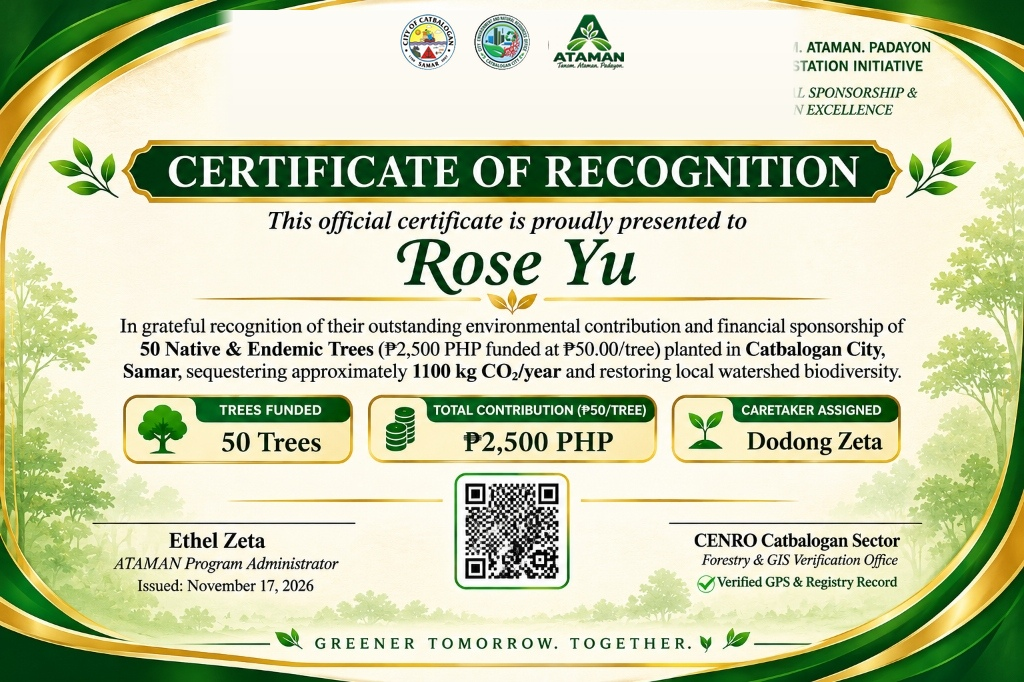
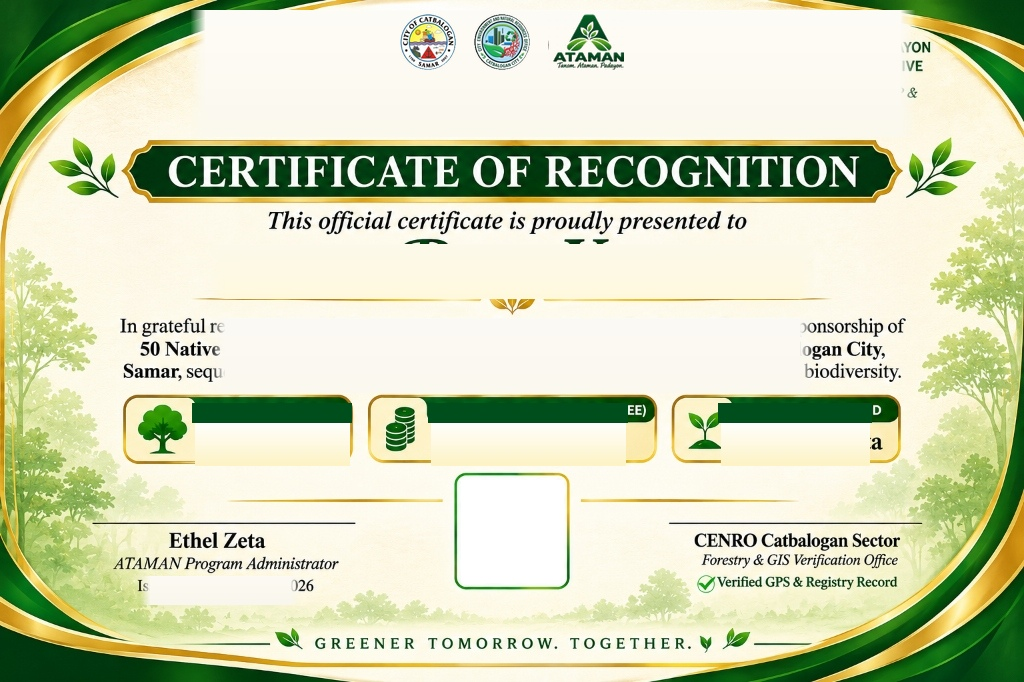
Fix certificate double text: restore clean pristine template background without baked-in dummy text

diff --git a/ATAMAN-init.js b/ATAMAN-init.js
@@ -1810,7 +1810,7 @@
           <!-- Printable Ornate Certificate Frame -->
           <div id="atamanPrintableCertificate" style="width:100%;border-radius:12px;overflow:hidden;box-shadow:0 10px 30px rgba(0,0,0,0.18);background:#faf6e8;">
             <svg id="atamanCertSvg" viewBox="0 0 1024 682" width="100%" height="100%" xmlns="http://www.w3.org/2000/svg" style="display:block;width:100%;height:auto;">
-              <image href="assets/certificate-template-bg.jpg?v=20261117_v5" x="0" y="0" width="1024" height="682" preserveAspectRatio="none"/>
+              <image href="assets/certificate-template-bg.jpg?v=20261117_v6" x="0" y="0" width="1024" height="682" preserveAspectRatio="none"/>
 
               <!-- Centered Header & Subtitle Underneath the Top Logos -->
               <text x="512" y="86" text-anchor="middle" fill="#091e12" font-family="'Plus Jakarta Sans', Arial, sans-serif" font-weight="800" font-size="12.5" letter-spacing="0.6">${escapeCertXml(headerTopLine1)}</text>
@@ -1863,9 +1863,9 @@
       });
 
       modal.querySelector('#certPrintBtn')?.addEventListener('click', () => {
-        const absBgUrl = new URL('assets/certificate-template-bg.jpg?v=20261117_v5', window.location.href).href;
+        const absBgUrl = new URL('assets/certificate-template-bg.jpg?v=20261117_v6', window.location.href).href;
         const rawSvg = (document.getElementById('atamanPrintableCertificate')?.innerHTML || '')
-          .replace('assets/certificate-template-bg.jpg?v=20261117_v5', absBgUrl);
+          .replace('assets/certificate-template-bg.jpg?v=20261117_v6', absBgUrl);
         const win = window.open('', '_blank', 'width=1080,height=740');
         if (win) {
           win.document.write(`<!DOCTYPE html><html><head><title>${certSerial}</title><style>@page{size:landscape;margin:8mm;}body{font-family:Georgia,serif;padding:0;margin:0;background:#fff;display:flex;align-items:center;justify-content:center;}</style></head><body><div style="width:100%;max-width:1024px;">${rawSvg}</div><script>window.onload=function(){setTimeout(function(){window.print();},400);};<\/script></body></html>`);
@@ -1989,7 +1989,7 @@
           link.href = canvas.toDataURL('image/png');
           link.click();
         };
-        bgImg.src = 'assets/certificate-template-bg.jpg?v=20261117_v5';
+        bgImg.src = 'assets/certificate-template-bg.jpg?v=20261117_v6';
       });
     }
 

diff --git a/saplink-init.js b/saplink-init.js
@@ -1810,7 +1810,7 @@
           <!-- Printable Ornate Certificate Frame -->
           <div id="atamanPrintableCertificate" style="width:100%;border-radius:12px;overflow:hidden;box-shadow:0 10px 30px rgba(0,0,0,0.18);background:#faf6e8;">
             <svg id="atamanCertSvg" viewBox="0 0 1024 682" width="100%" height="100%" xmlns="http://www.w3.org/2000/svg" style="display:block;width:100%;height:auto;">
-              <image href="assets/certificate-template-bg.jpg?v=20261117_v5" x="0" y="0" width="1024" height="682" preserveAspectRatio="none"/>
+              <image href="assets/certificate-template-bg.jpg?v=20261117_v6" x="0" y="0" width="1024" height="682" preserveAspectRatio="none"/>
 
               <!-- Centered Header & Subtitle Underneath the Top Logos -->
               <text x="512" y="86" text-anchor="middle" fill="#091e12" font-family="'Plus Jakarta Sans', Arial, sans-serif" font-weight="800" font-size="12.5" letter-spacing="0.6">${escapeCertXml(headerTopLine1)}</text>
@@ -1863,9 +1863,9 @@
       });
 
       modal.querySelector('#certPrintBtn')?.addEventListener('click', () => {
-        const absBgUrl = new URL('assets/certificate-template-bg.jpg?v=20261117_v5', window.location.href).href;
+        const absBgUrl = new URL('assets/certificate-template-bg.jpg?v=20261117_v6', window.location.href).href;
         const rawSvg = (document.getElementById('atamanPrintableCertificate')?.innerHTML || '')
-          .replace('assets/certificate-template-bg.jpg?v=20261117_v5', absBgUrl);
+          .replace('assets/certificate-template-bg.jpg?v=20261117_v6', absBgUrl);
         const win = window.open('', '_blank', 'width=1080,height=740');
         if (win) {
           win.document.write(`<!DOCTYPE html><html><head><title>${certSerial}</title><style>@page{size:landscape;margin:8mm;}body{font-family:Georgia,serif;padding:0;margin:0;background:#fff;display:flex;align-items:center;justify-content:center;}</style></head><body><div style="width:100%;max-width:1024px;">${rawSvg}</div><script>window.onload=function(){setTimeout(function(){window.print();},400);};<\/script></body></html>`);
@@ -1989,7 +1989,7 @@
           link.href = canvas.toDataURL('image/png');
           link.click();
         };
-        bgImg.src = 'assets/certificate-template-bg.jpg?v=20261117_v5';
+        bgImg.src = 'assets/certificate-template-bg.jpg?v=20261117_v6';
       });
     }
 

diff --git a/sw.js b/sw.js
@@ -3,7 +3,7 @@
  * Provides offline caching, network-resilient fallbacks, and PWA installation support.
  */
 
-const CACHE_NAME = 'ataman-pwa-v2.2.9-header-logos-top-text-below';
+const CACHE_NAME = 'ataman-pwa-v2.2.10-clean-pristine-certificate-template';
 
 // Core Application Shell Assets to Pre-cache
 const PRECACHE_ASSETS = [

diff --git a/index.html b/index.html
@@ -940,7 +940,7 @@
       }
     }
   </style>
-  <script src="ATAMAN-init.js?v=20261117_v5"></script>
+  <script src="ATAMAN-init.js?v=20261117_v6"></script>
 </head>
 
 <body>
